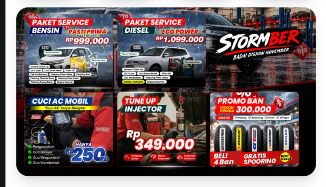
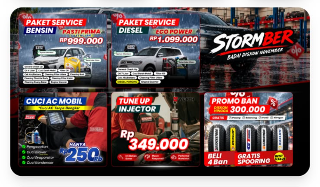
Changes

diff --git a/src/components/mobile/home/ServiceCategoryGrid.tsx b/src/components/mobile/home/ServiceCategoryGrid.tsx
@@ -176,10 +176,9 @@ const ServiceCategoryGrid = () => {
                 <button
                   key={cat.key}
                   onClick={() => openCategory(cat)}
-                  className="relative flex flex-col items-center justify-end press-tap text-center transition-transform active:scale-[0.96] bg-transparent"
+                  className="relative flex flex-col items-center justify-start gap-1 press-tap text-center transition-transform active:scale-[0.96] bg-transparent"
                   aria-label={cat.label}
                   style={{
-                    aspectRatio: "0.85",
                     padding: "0 2px 2px",
                   }}
                 >
@@ -190,7 +189,7 @@ const ServiceCategoryGrid = () => {
                         style={{
                           position: "absolute",
                           left: "50%",
-                          top: "58%",
+                          top: 50,
                           width: "70%",
                           height: 14,
                           transform: "translateX(-50%)",
@@ -207,12 +206,10 @@ const ServiceCategoryGrid = () => {
                         loading="eager"
                         decoding="async"
                         style={{
-                          position: "absolute",
-                          left: "50%",
-                          top: -6,
-                          width: "118%",
+                          position: "relative",
+                          width: 64,
+                          height: 64,
                           filter: "drop-shadow(0 8px 10px rgba(0,0,0,0.22))",
-                          transform: "translateX(-50%)",
                           objectFit: "contain",
                           pointerEvents: "none",
                           zIndex: 1,

diff --git a/src/components/mobile/PromoCarousel.tsx b/src/components/mobile/PromoCarousel.tsx
@@ -31,7 +31,7 @@ const PromoCarousel = () => {
   };
 
   return (
-    <section id="promo" aria-label="Promo" className="lg:hidden relative mt-2 overflow-hidden rounded-t-[28px] border border-b-0 border-border/50 bg-card/40 px-2.5 pt-3 pb-1 backdrop-blur-2xl shadow-[0_-12px_30px_-18px_hsl(0_0%_0%/0.3),inset_0_2px_4px_hsl(0_0%_100%/0.5)]">
+    <section id="promo" aria-label="Promo" className="lg:hidden relative mt-2 overflow-hidden rounded-t-[28px] border border-b-0 border-border/50 bg-card/40 px-3 pt-3 pb-2 backdrop-blur-2xl shadow-[0_-12px_30px_-18px_hsl(0_0%_0%/0.3),inset_0_2px_4px_hsl(0_0%_100%/0.5)]">
       <div aria-hidden className="pointer-events-none absolute -top-10 -left-10 h-32 w-32 rounded-full bg-primary/25 blur-3xl" />
       <div aria-hidden className="pointer-events-none absolute -right-12 top-10 h-36 w-36 rounded-full bg-primary/15 blur-3xl" />
       <div aria-hidden className="pointer-events-none absolute inset-0 bg-gradient-to-br from-background/40 via-transparent to-background/10" />
@@ -46,7 +46,7 @@ const PromoCarousel = () => {
             type="button"
             onClick={() => navigate(s.to)}
             aria-label={s.alt}
-            className="relative shrink-0 w-full snap-center overflow-hidden rounded-2xl text-left aspect-[326/187] border border-background/40 shadow-[inset_0_1px_2px_hsl(0_0%_100%/0.4)] active:scale-[0.99] transition-transform"
+            className="relative shrink-0 w-full snap-center overflow-hidden rounded-2xl text-left aspect-[320/187] border border-background/40 shadow-[inset_0_1px_2px_hsl(0_0%_100%/0.4)] active:scale-[0.99] transition-transform"
           >
             {s.image ? (
               <img src={s.image} alt="" loading="eager" className="h-full w-full object-contain" />

diff --git a/src/components/Navbar.tsx b/src/components/Navbar.tsx
@@ -204,9 +204,7 @@ const Navbar = ({ homeHero = false }: { homeHero?: boolean }) => {
               className="flex items-center gap-2 hover:opacity-80 transition-opacity"
             >
               <img src={logoLight} alt={brandName} className="h-7 w-auto object-contain hidden sm:block" />
-              {homeHero && (
-                <img src={logoLight} alt={brandName} className="h-5 w-auto object-contain sm:hidden brightness-0 invert" />
-              )}
+              <img src={logoLight} alt={brandName} className={`h-5 w-auto object-contain sm:hidden ${homeHero ? "brightness-0 invert" : ""}`} />
             </button>
           </div>
 

diff --git a/src/components/mobile/home/MobileHomeHeader.tsx b/src/components/mobile/home/MobileHomeHeader.tsx
@@ -37,7 +37,7 @@ const MobileHomeHeader = () => {
       <div className="home-red-bg relative z-30 -mt-px rounded-b-[32px] px-4 pt-1 pb-12">
         <HomeCatalogSearch />
       </div>
-      <div className="px-4 -mt-9 relative">
+      <div className="px-4 -mt-9 relative z-40">
         <div className="relative overflow-hidden rounded-2xl border border-border/60 bg-card px-4 py-3 shadow-[0_12px_30px_-14px_hsl(0_0%_0%/0.25),inset_0_1px_2px_hsl(0_0%_100%/0.6)] flex items-center gap-3">
           <div className="min-w-0 flex-1">
             <p className="text-[11px] text-muted-foreground leading-tight">Selamat datang</p>
